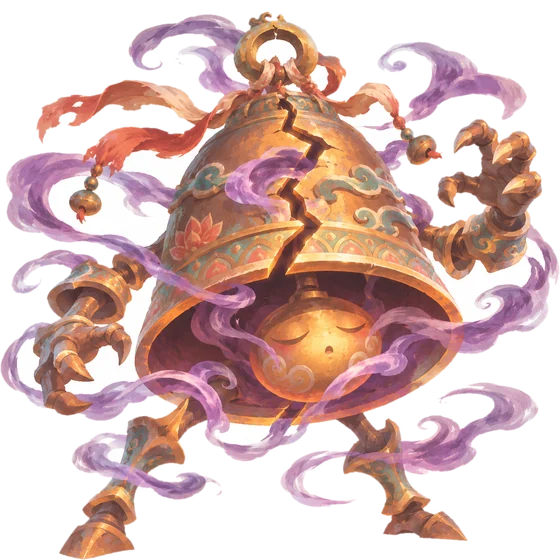
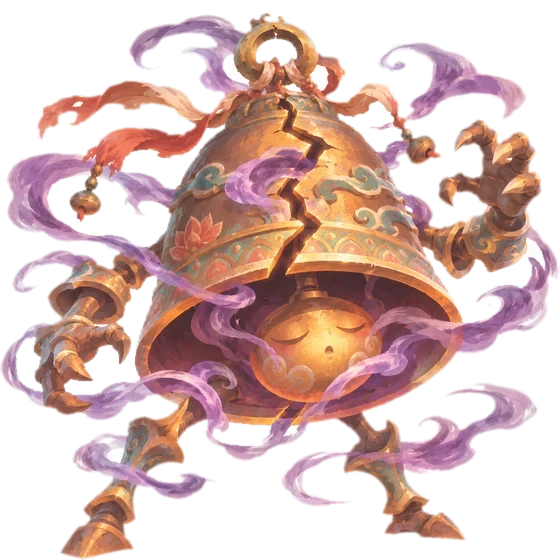
Illustrations : creux blancs retirés de 19 ennemis
Claude-Session: https://claude.ai/code/session_01QVrBbs6bFcjWScyH1MwEZW

diff --git a/outils/art/convertir.py b/outils/art/convertir.py
@@ -26,6 +26,34 @@ def detourer(im):
     rgba=im.convert('RGBA'); rgba.putalpha(alpha)
     bb=alpha.point(lambda v:255 if v>20 else 0).getbbox()
     return rgba.crop(bb) if bb else rgba
+def trous(fond, mask, mini):
+    # Creux fermés (entre une queue et un corps, sous un bras…) : les grandes zones blanches enclavées sont aussi du fond.
+    h,w=fond.shape; vu=mask.copy()
+    for y0 in range(h):
+        for x0 in range(w):
+            if not fond[y0,x0] or vu[y0,x0]: continue
+            zone=[(y0,x0)]; vu[y0,x0]=True; i=0
+            while i<len(zone):
+                y,x=zone[i]; i+=1
+                for dy,dx in ((1,0),(-1,0),(0,1),(0,-1)):
+                    ny,nx=y+dy,x+dx
+                    if 0<=ny<h and 0<=nx<w and fond[ny,nx] and not vu[ny,nx]:
+                        vu[ny,nx]=True; zone.append((ny,nx))
+            if len(zone)>=mini:
+                for y,x in zone: mask[y,x]=True
+if __name__=='__main__' and os.environ.get('REPARER'):
+    # REPARER=1 python3 convertir.py fichiers.webp… : retire les creux blancs d'illustrations déjà converties.
+    import sys
+    for f in sys.argv[1:]:
+        im=Image.open(f).convert('RGBA'); a=np.asarray(im).astype(np.int16)
+        mn=a[...,:3].min(2); mx=a[...,:3].max(2)
+        fond=(a[...,3]>200)&(mn>225)&((mx-mn)<26)
+        mask=np.zeros(fond.shape,bool); trous(fond,mask,int(fond.size*0.0015))
+        al=np.where(mask,0,a[...,3]).astype(np.uint8)
+        al=np.asarray(Image.fromarray(al).filter(ImageFilter.MinFilter(3)).filter(ImageFilter.GaussianBlur(0.8)))
+        al=np.minimum(al,a[...,3]).astype(np.uint8)
+        im.putalpha(Image.fromarray(al)); im.save(f,quality=86,method=6); print(f, int(mask.sum()))
+    sys.exit(0)
 for f in sorted(glob.glob('out/*.png')):
     n=os.path.basename(f)[:-4]; im=Image.open(f)
     if n.startswith('ennemi_'):

diff --git a/outils/art/LISEZMOI.md b/outils/art/LISEZMOI.md
@@ -7,3 +7,5 @@ Pipeline utilisé pour produire les images de `public/art` (sur un Mac avec Code
 3. Copier `web/*.webp` dans `public/art/` puis ajouter les noms à `ILLUSTRATIONS` (`src/render/assets.ts`) ; un test vérifie que la liste correspond aux fichiers.
 
 `prompts/` contient les prompts des Actes III, IV et V (ceux des Actes I et II ont déjà été générés).
+
+Creux blancs : le détourage ne vide que le fond relié aux bords. Pour un ennemi aux couleurs franches dont un creux fermé reste blanc, lancer `REPARER=1 python3 convertir.py ../../public/art/ennemi_<id>.webp`. Ne pas l'appliquer aux créatures blanches (loup de givre, ours, méduse…) : leur pelage serait percé.
